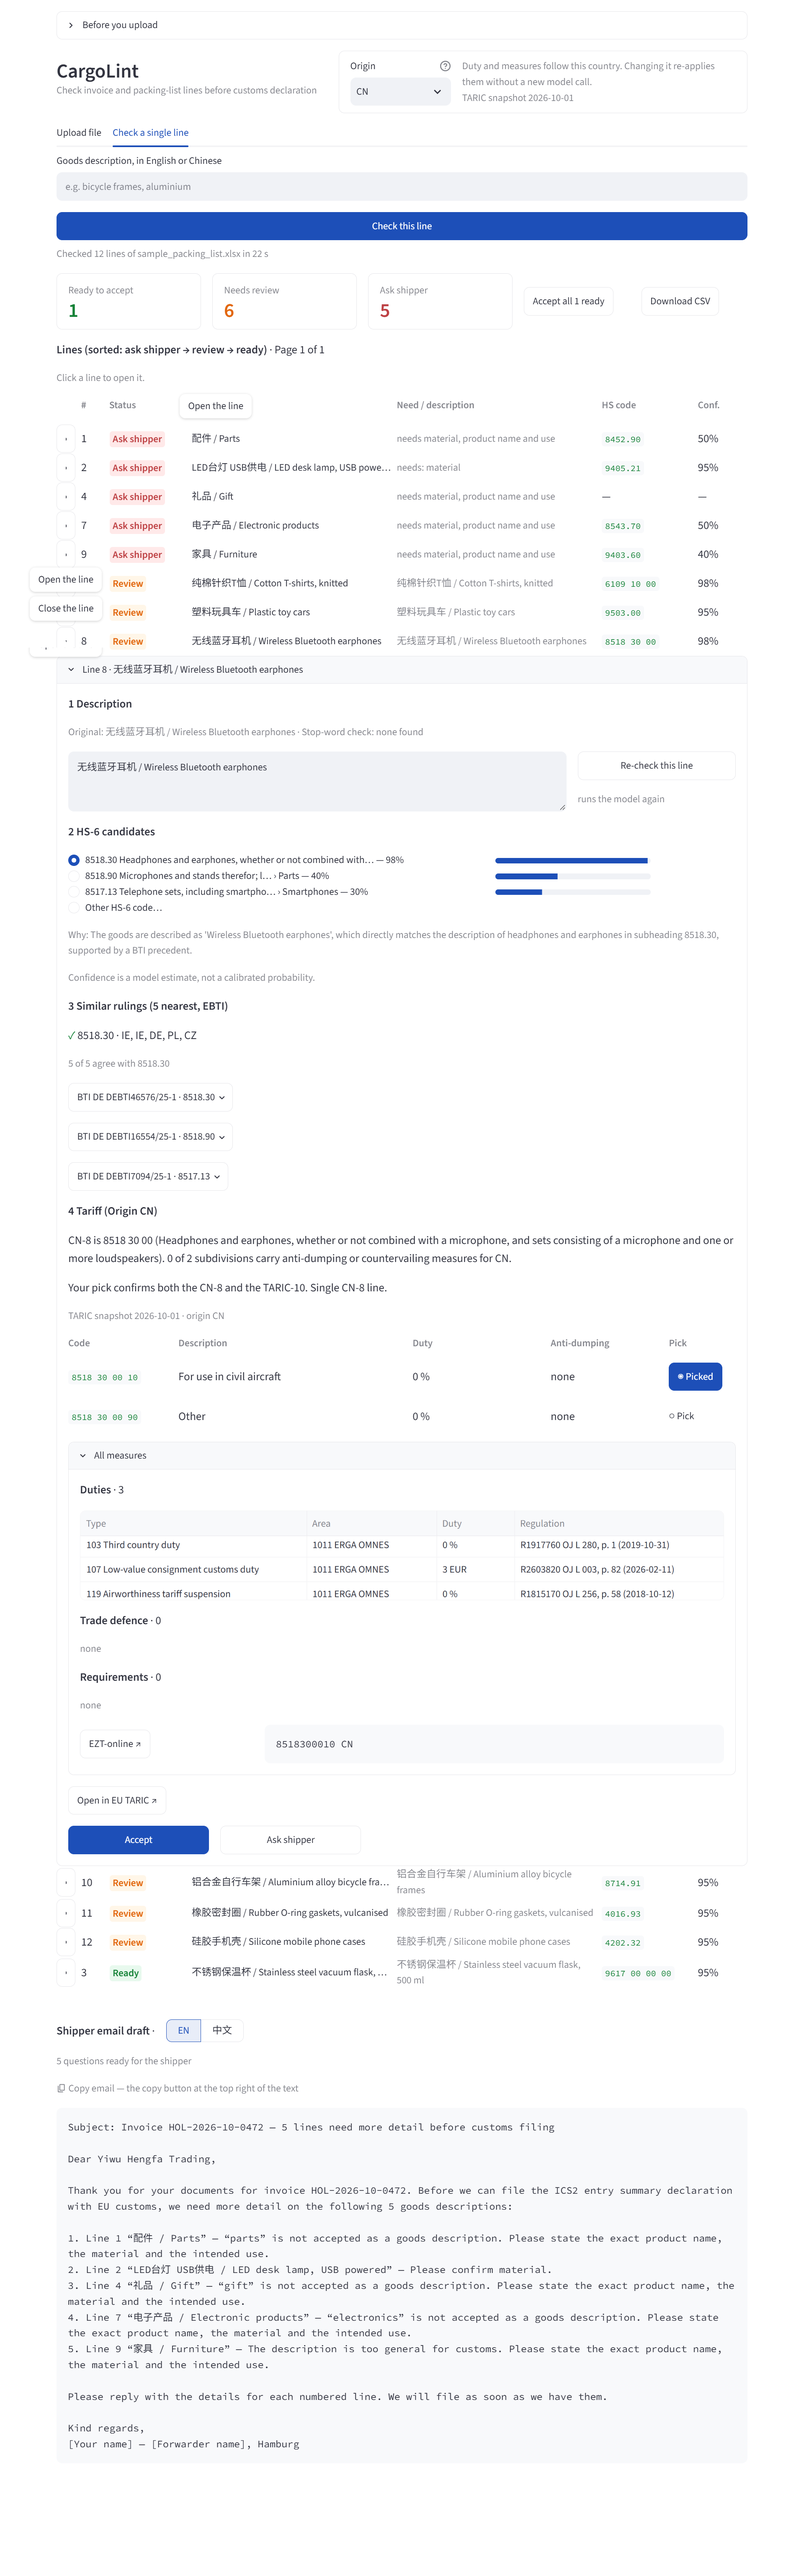
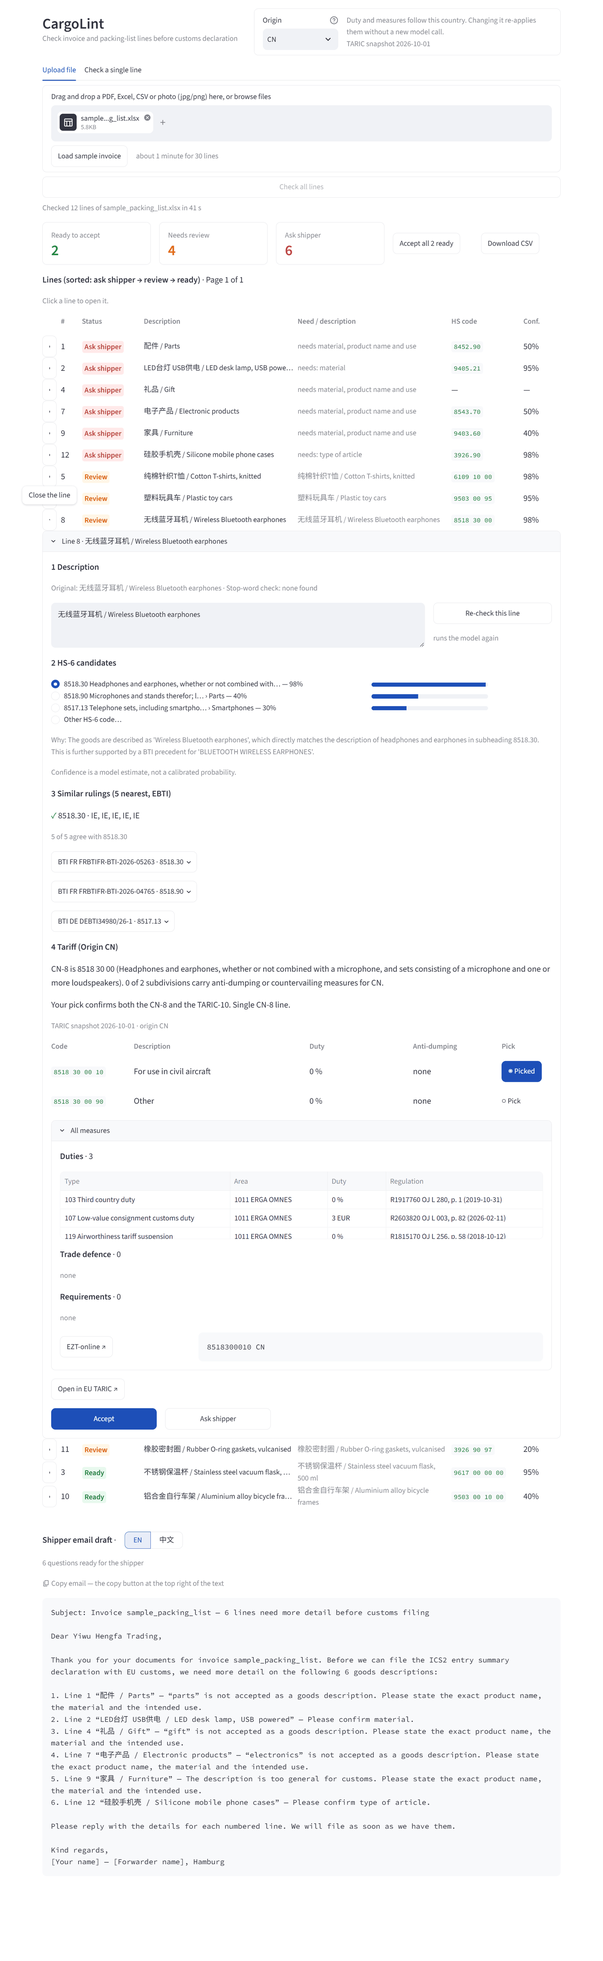
docs: new README screenshot, resized; capstone line
- docs/design/screenshot-012.png is the author's new capture, resized from
  1920 to 1440 px wide (1440x4680) and saved as a 128-colour PNG of 381 KB.
  At 1600 px only 64 colours fitted under 400 KB, which turned the green
  HS codes grey. The README link is unchanged.
- The README ends with "Built as the capstone project of the Turing
  College AI Engineering programme."

diff --git a/README.md b/README.md
@@ -584,3 +584,5 @@ synthetic demo data.
 
 The TARIC snapshot (`data/taric.jsonl`, inside the demo archive) is European Commission tariff data obtained through
 Swedish Customs' file distribution service.
+
+Built as the capstone project of the Turing College AI Engineering programme.
